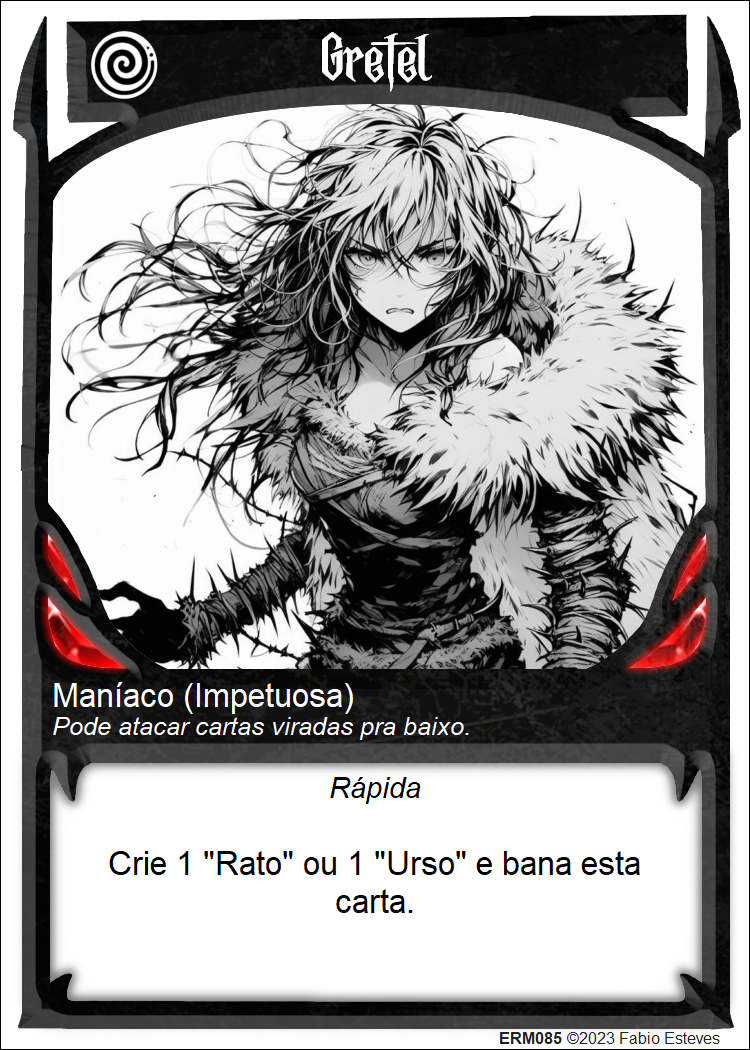
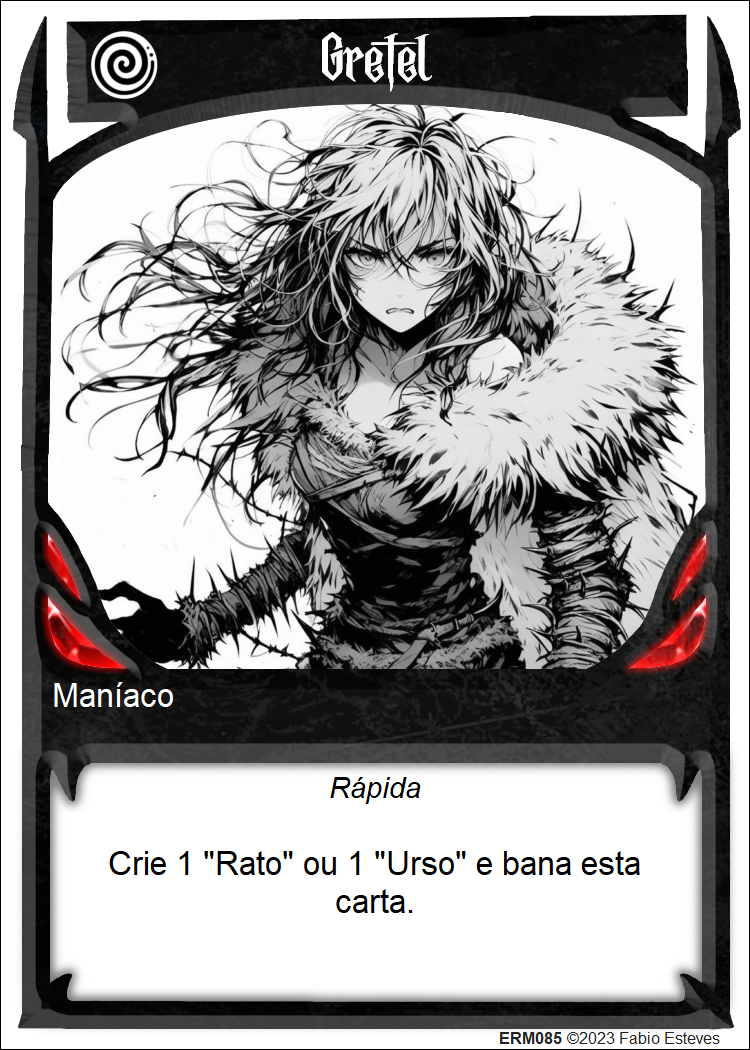
sai impiedosa entra vingativa

Changed region(s): [[0.0613, 0.64, 0.6133, 0.701]]

diff --git a/cardspt/cardlistpt.html b/cardspt/cardlistpt.html
@@ -422,8 +422,6 @@ Predadores	|Capanga|	Coloque esta carta no topo do Baralho do oponente. Se tiver
     Pode atacar e matar um "Invulnerável".<br>
     <strong>Fortão</strong><br>
     Pode atacar e matar um "Obstáculo".<br>
-    <strong>Impetuosa</strong><br>
-    Pode atacar cartas viradas pra baixo.<br>
     <strong>Invulnerável</strong><br>
     Só pode ser atacada ou morta por um "Exterminador".<br>
     <strong>Maldição</strong><br>
@@ -433,7 +431,9 @@ Predadores	|Capanga|	Coloque esta carta no topo do Baralho do oponente. Se tiver
     <strong>Regenerativa</strong><br>
     Pode retornar pra sua mão quando morrer.<br>
     <strong>Sorrateira</strong><br>
-    Mata a carta que ela bloquear (exclusivo de espião).<br>
+    Mata a carta que ela bloquear.<br>
+    <strong>Vingativa</strong><br>
+    Mata o espião que bloqueá-la.<br>
     <strong>Voador</strong><br>
     Pode retornar pra sua mão.<br>
     </p>
